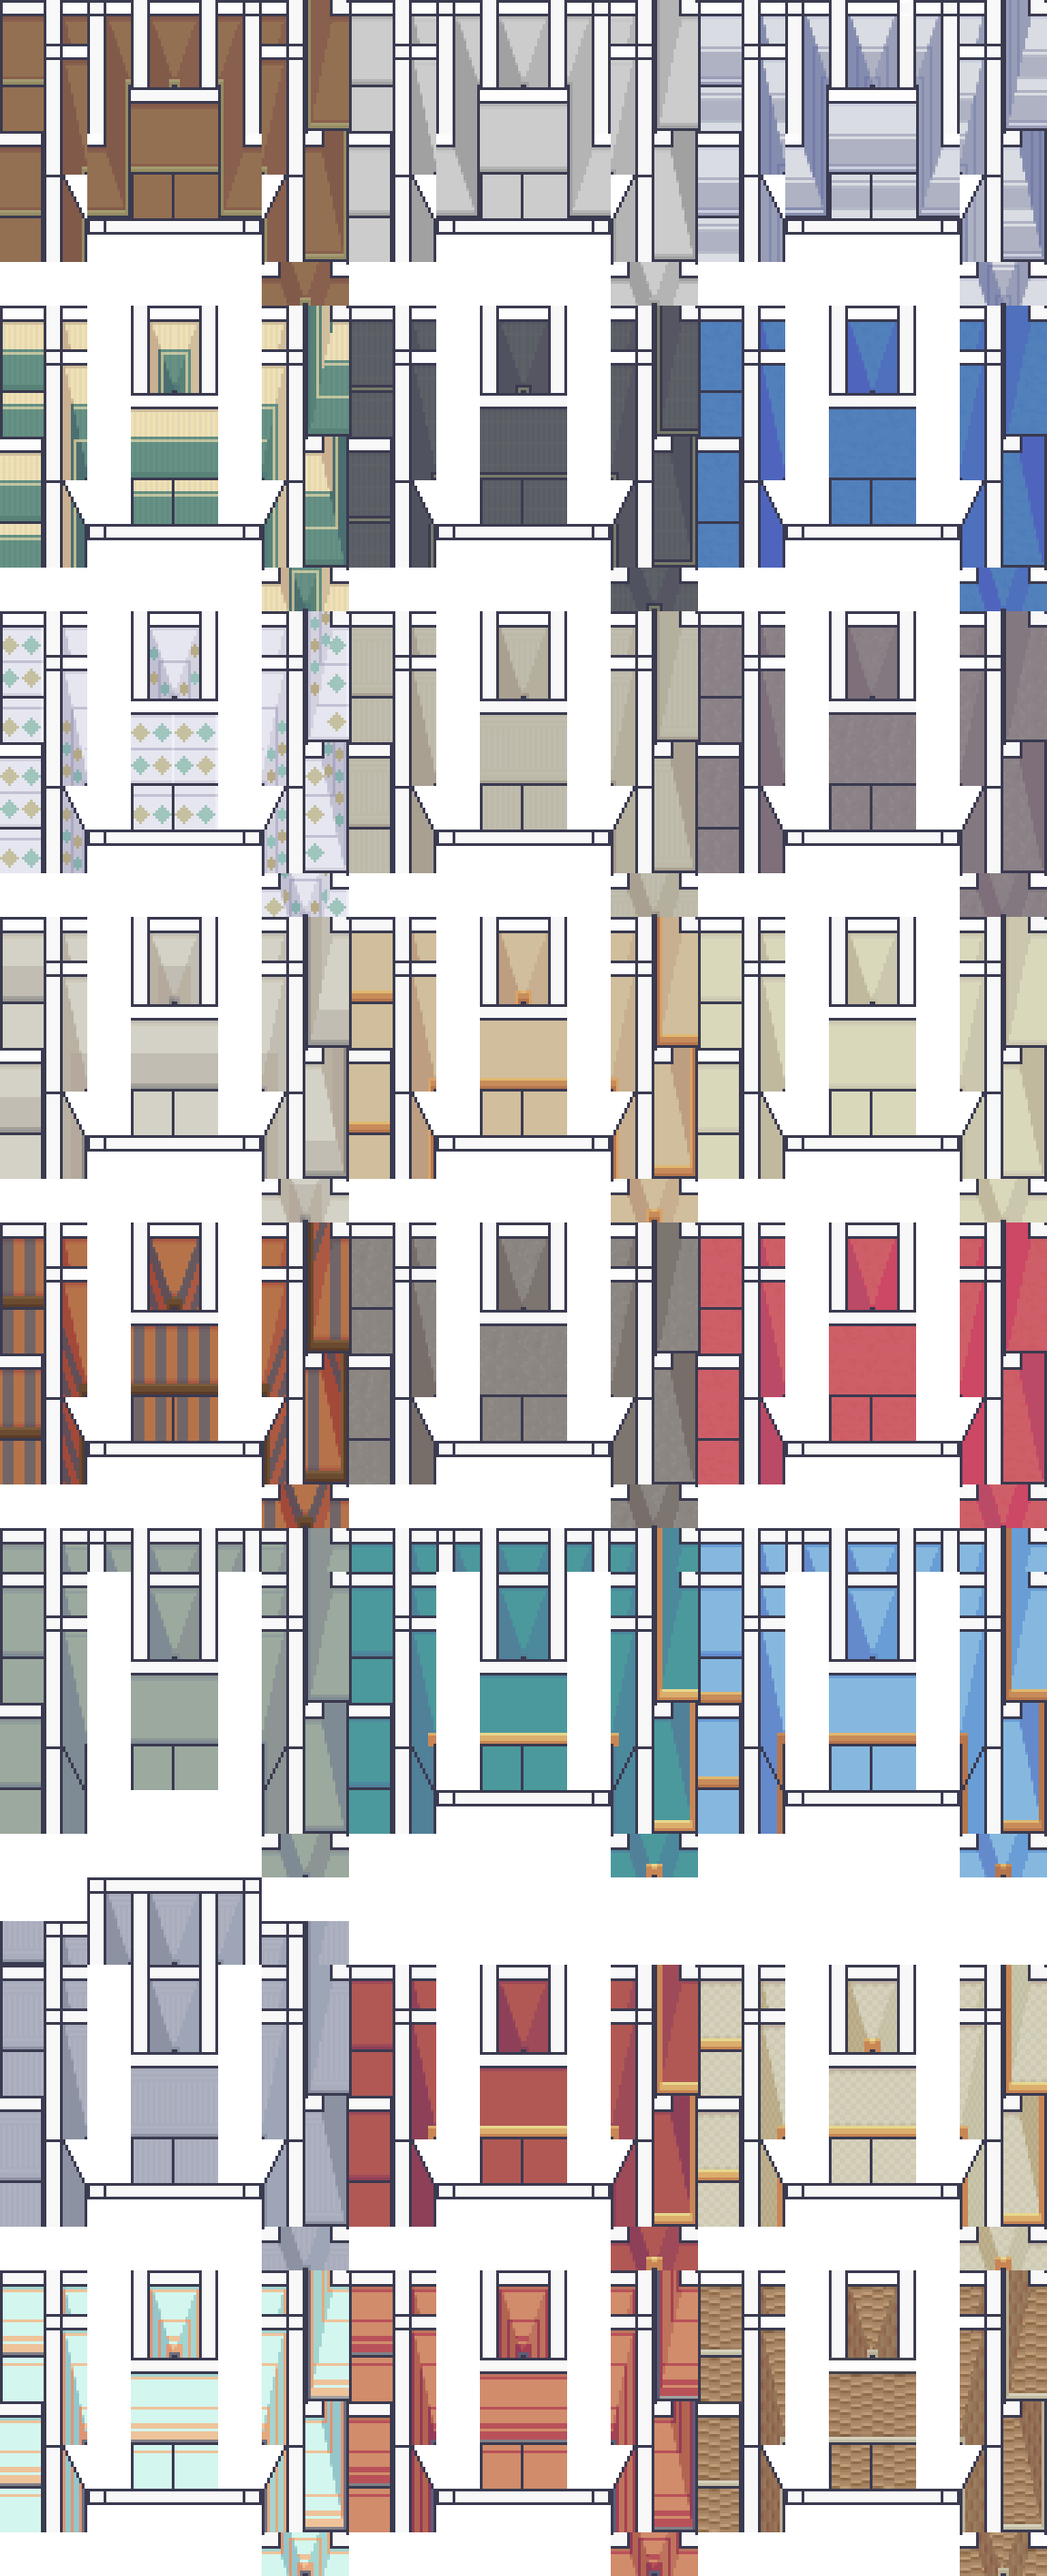
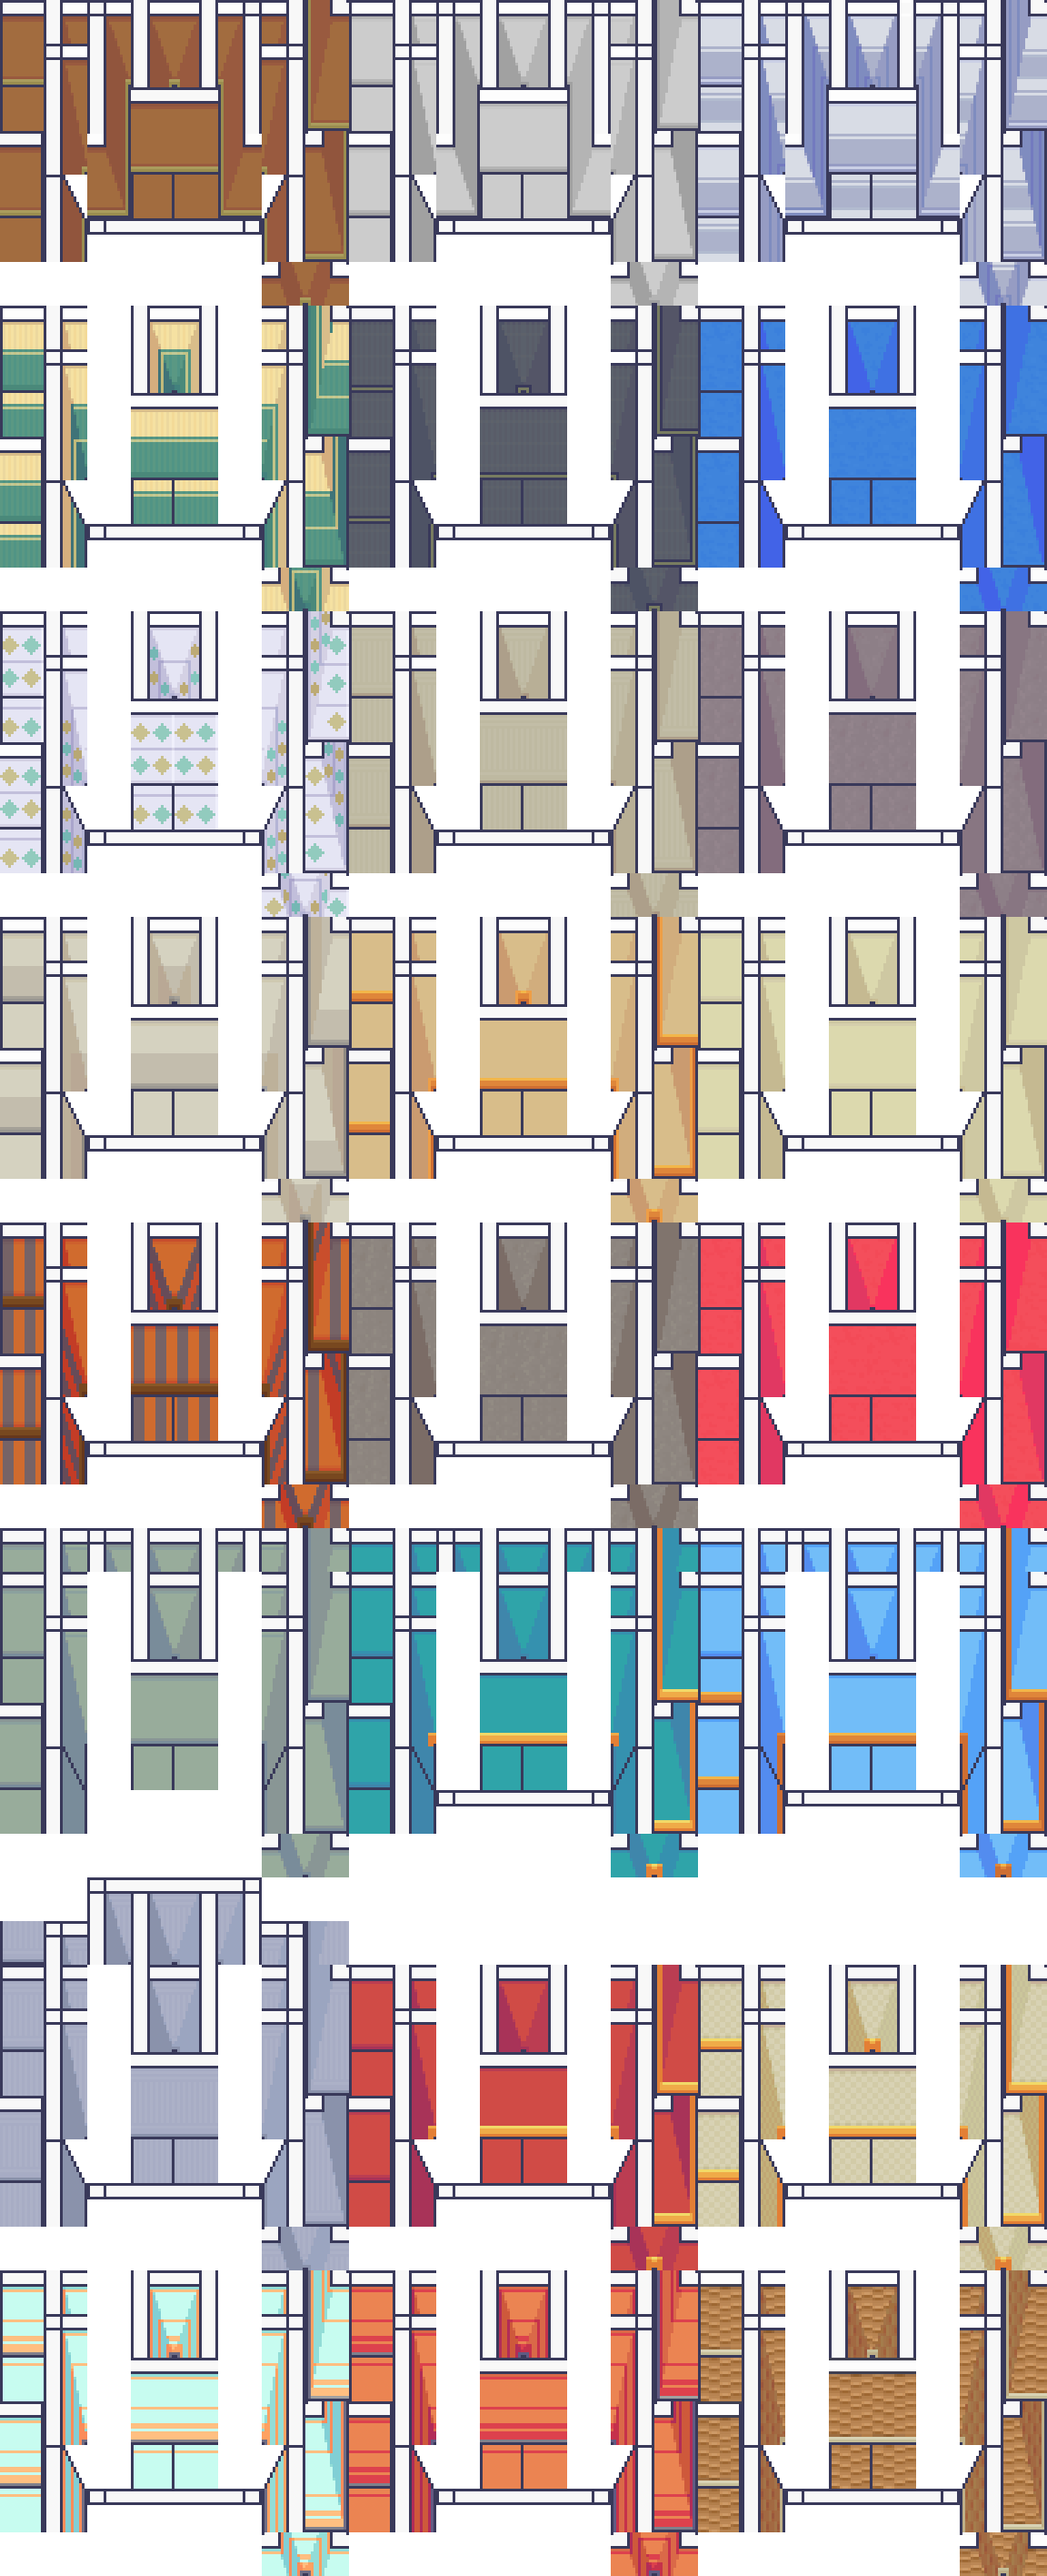
Pawn Run: match the interior colours to the Tiny Swords art (chroma x1.5 on the Room_Builder sheets and House A)
Interior floors/walls had median HSV saturation 0.28-0.30 against 0.38-0.44 for the Tiny Swords art. One shared SAT constant in
tools/interior_color.py, applied only by the generators (new tools/make_house_a.py rebuilds House A from the pack; make_room.py).

diff --git a/games/pawnrun/tools/make_room.py b/games/pawnrun/tools/make_room.py
@@ -4,7 +4,7 @@
 Run from anywhere:  python3 tools/make_room.py        (needs PIL, numpy; the Modern Interiors pack in WebGames/Assets)
 
 Writes (all under the game folder):
-  assets/interiors/Room_Builder_3d_walls_48x48.png, Room_Builder_Floors_48x48.png   copies of the two Room_Builder sheets
+  assets/interiors/Room_Builder_3d_walls_48x48.png, Room_Builder_Floors_48x48.png   colour-graded copies of the two Room_Builder sheets
   assets/interiors/furniture/*.png                                                  pieces cropped from the Shadowless Theme_Sorter sheets
   maps/room_walls.tsj      wall sheet; every tile has a collision shape = the box of its opaque pixels (made once, used by every room)
   maps/room_floors.tsj     floor sheet (no collision)
@@ -12,10 +12,13 @@ Writes (all under the game folder):
   maps/interiors/house_b.tmj  the room (rules: _guide/ROOM_RULES.txt of the pack). Edit it in Tiled afterwards; this only seeds it.
 The tilesets are rewritten on every run, so run it only to rebuild from scratch.
 """
-import json, shutil
+import json, sys
 from pathlib import Path
 import numpy as np
 from PIL import Image
+
+sys.path.insert(0, str(Path(__file__).resolve().parent))
+from interior_color import grade
 
 GAME = Path(__file__).resolve().parent.parent
 PACK = GAME.parents[2] / "WebGames/Assets/moderninteriors-win/1_Interiors/48x48"
@@ -46,13 +49,13 @@ def sheet_tsj(name, png, solid):
 
 WALLS, FLOORS = "Room_Builder_3d_walls_48x48.png", "Room_Builder_Floors_48x48.png"
 OUT.mkdir(parents=True, exist_ok=True)
-shutil.copy(SUB / WALLS, OUT / WALLS); shutil.copy(SUB / FLOORS, OUT / FLOORS)
+for f in (WALLS, FLOORS): grade(Image.open(SUB / f)).save(OUT / f)      # colour-graded copies (tools/interior_color.py)
 n_walls = sheet_tsj("room_walls", WALLS, True)
 n_floors = sheet_tsj("room_floors", FLOORS, False)
 
 # ---- furniture ------------------------------------------------------------------------------------------------------
 # name: (sheet, col0, row0, col1, row1 (exclusive), collision (x, y, w, h) in the cropped image, depth property)
-# The crop is trimmed to its opaque pixels. Collision follows the base: wall pieces block their whole floor depth.
+# The crop is trimmed to its opaque pixels. Not graded: the Shadowless pieces already match the Tiny Swords saturation (median 0.55 vs 0.52). Collision follows the base: wall pieces block their whole floor depth.
 PIECES = {
     "bed":        ("4_Bedroom",  9, 0, 11, 4,  lambda w, h: (0, 24, w, h - 24), None),
     "armoire":    ("2_LivingRoom", 7, 4, 9, 7, lambda w, h: (2, h - 48, w - 4, 48), None),

diff --git a/games/pawnrun/tools/make_house_a.py b/games/pawnrun/tools/make_house_a.py
@@ -1,0 +1,47 @@
+#!/usr/bin/env python3
+"""Rebuild assets/interiors/house_a_1.png and house_a_2.png from the Modern Interiors Generic_Home_1 design, then grade the colours.
+
+Run from anywhere:  python3 tools/make_house_a.py        (needs PIL, numpy; the pack in WebGames/Assets)
+Layer 1 = room shell (a few walls patched so the room is closed), layer 2 = furniture (the pack's stray character and
+unwanted pieces cleared).
+"""
+import sys
+from pathlib import Path
+from PIL import Image
+sys.path.insert(0, str(Path(__file__).resolve().parent))
+from interior_color import grade
+
+GAME = Path(__file__).resolve().parent.parent
+D = GAME.parents[2] / "WebGames/Assets/moderninteriors-win/6_Home_Designs/Generic_Home_Designs/48x48/"
+O = GAME / "assets/interiors/"
+l1=Image.open(D/'Generic_Home_1_Layer_1_48x48.png').convert('RGBA')
+l2=Image.open(D/'Generic_Home_1_Layer_2_48x48.png').convert('RGBA')
+def patch(im,dst_box,src_xy):          # copy a block
+    w=dst_box[2]-dst_box[0]; h=dst_box[3]-dst_box[1]
+    im.paste(im.crop((src_xy[0],src_xy[1],src_xy[0]+w,src_xy[1]+h)),(dst_box[0],dst_box[1]))
+# top opening: wall face copied from beside it
+patch(l1,(332,0,392,96),(240,0))
+# left corridor mouth x 96..144: straight wall (rows 336..383) tiled over y 96..335
+tile=l1.crop((96,336,144,384))
+for y in range(96,336,48): l1.paste(tile,(96,y))
+# right corridor mouth x 576..624: rows 336..383 tiled over y 144..335
+tile=l1.crop((576,336,624,384))
+for y in range(144,336,48): l1.paste(tile,(576,y))
+box=(96,0,624,642)
+l1=l1.crop(box); l2=l2.crop(box)
+def clear(x0,y0,x1,y1,keep=lambda x,y:False):
+    px=l2.load()
+    for y in range(y0,y1):
+        for x in range(x0,x1):
+            if not keep(x,y): px[x,y]=(0,0,0,0)
+clear(336,121,383,172,lambda x,y: x>=366 and y<=130)   # the straw-hat character drawn into the design
+clear(0,120,48,270)         # corridor plant, left
+clear(480,170,528,275)      # corridor plant, right
+clear(300,190,365,225)      # grey floor cushion
+clear(48,244,100,321)       # grey machine behind the bed
+px=l2.load()                # stray red/orange pixels of the character that touch the bed
+for y in range(119,135):
+    for x in range(336,375):
+        r,g,b,a=px[x,y]
+        if a and r>150 and g<110: px[x,y]=(0,0,0,0)
+grade(l1).save(O/'house_a_1.png'); grade(l2).save(O/'house_a_2.png')

diff --git a/games/pawnrun/tools/interior_color.py b/games/pawnrun/tools/interior_color.py
@@ -1,0 +1,22 @@
+"""Shared colour grade for the Modern Interiors art, so it sits next to the Tiny Swords art.
+
+Measured (HSV, opaque pixels with saturation >= 0.12, median): Tiny Swords hero 0.38, terrain 0.40, all art 0.44;
+Modern Interiors floors/walls 0.28, House A 0.30 (the Shadowless furniture crops are already 0.55, so they are left alone).
+The grade scales chroma by SAT about the pixel's luma, so hue and brightness stay; SAT 1.5 of chroma is about 1.4x HSV saturation
+(House A median 0.30 -> 0.42). Brightness is left alone: the interiors are ~0.05 brighter (V median 0.67 vs 0.59-0.62), but darkening
+turns the white wall rims grey, which is worse.
+
+Applied ONLY by the generators (make_room.py for the Room_Builder sheets, make_house_a.py), which always start from the untouched pack files, so a
+second run can never grade twice. Never import this to re-grade a file in assets/.
+"""
+import numpy as np
+from PIL import Image
+
+SAT = 1.5
+
+def grade(im):
+    a = np.array(im.convert("RGBA")).astype(float)
+    rgb = a[..., :3]
+    luma = (rgb * [0.299, 0.587, 0.114]).sum(-1, keepdims=True)
+    a[..., :3] = np.clip(luma + (rgb - luma) * SAT, 0, 255)
+    return Image.fromarray(np.rint(a).astype(np.uint8), "RGBA")
